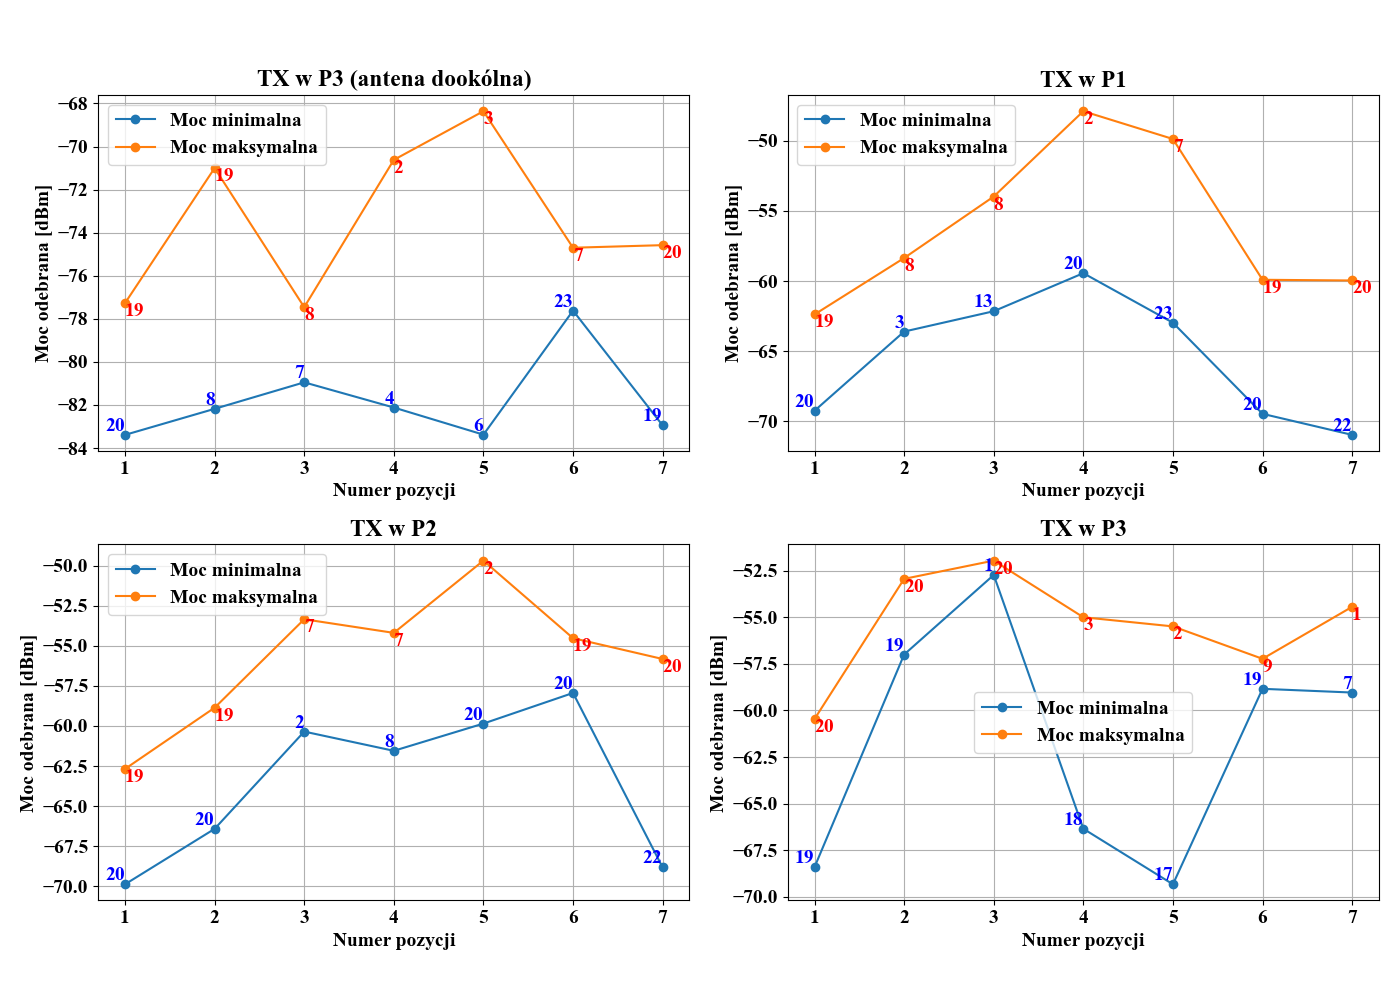
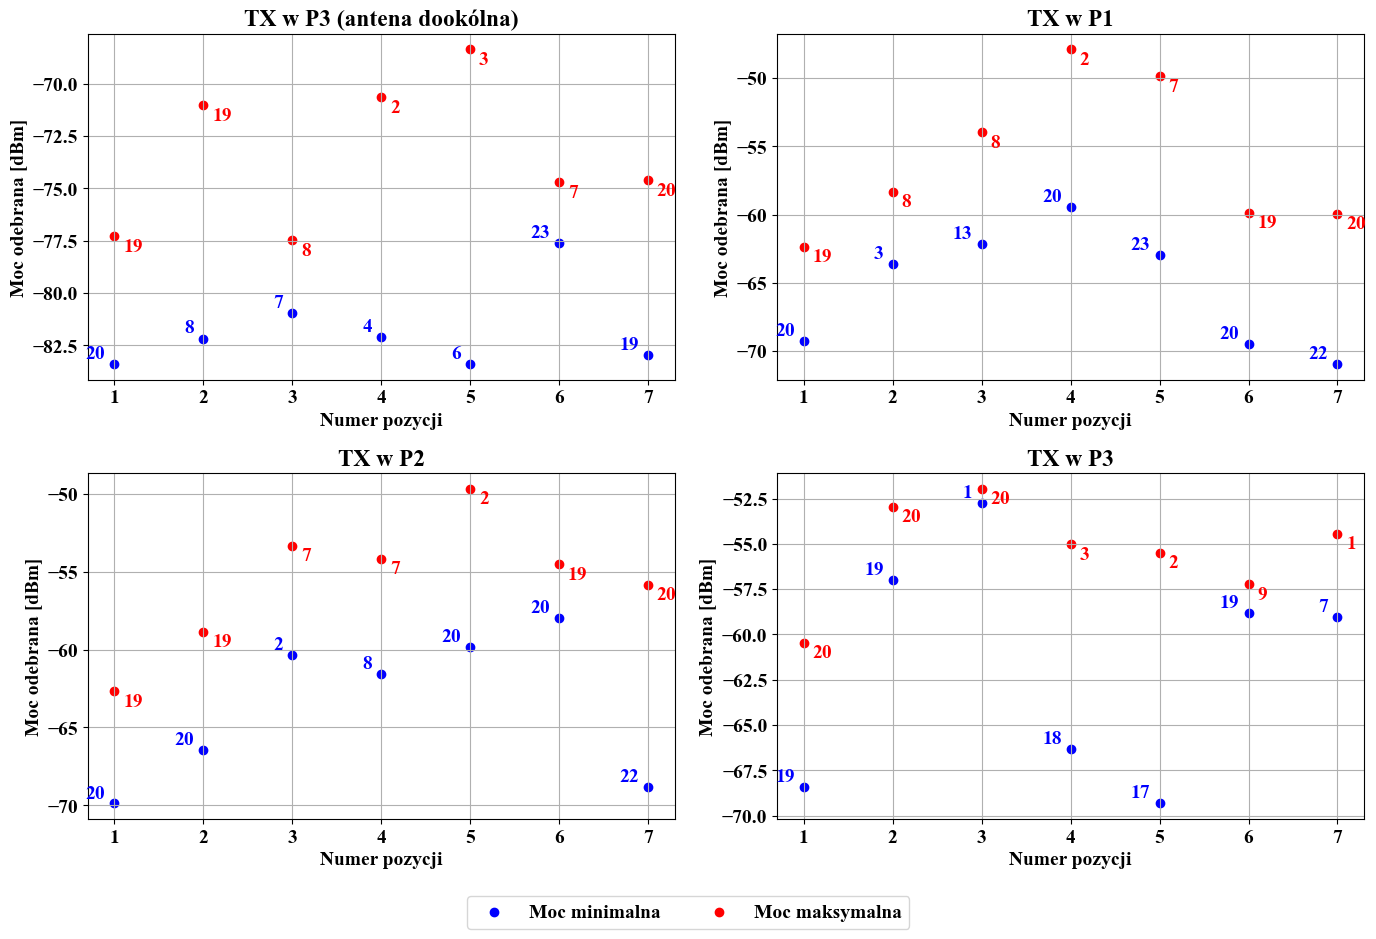
update

diff --git a/Suwnica programy i wykresy/minmaxcombo.py b/Suwnica programy i wykresy/minmaxcombo.py
@@ -25,7 +25,9 @@ os.makedirs(output_folder, exist_ok=True)
 
 # Przygotowanie figury
 fig, axs = plt.subplots(2, 2, figsize=(14, 10))
-# fig.suptitle("Minimalna i maksymalna", fontsize=20, fontweight="bold")
+
+# Używane etykiety do wspólnej legendy
+legend_labels = []
 
 # Iteracja po plikach i osiach
 for idx, (filename, title) in enumerate(zip(file_list, subplot_titles)):
@@ -52,13 +54,22 @@ for idx, (filename, title) in enumerate(zip(file_list, subplot_titles)):
         max_patterns.append(int(max_row["Pattern"]))
 
     ax = axs[idx // 2][idx % 2]
-    ax.plot(positions, min_power, marker="o", label="Moc minimalna")
-    ax.plot(positions, max_power, marker="o", label="Moc maksymalna")
+    scatter_min = ax.scatter(
+        positions, min_power, label="Moc minimalna", color="blue", marker="o"
+    )
+    scatter_max = ax.scatter(
+        positions, max_power, label="Moc maksymalna", color="red", marker="o"
+    )
+
+    # Tylko raz dodaj etykiety do wspólnej legendy
+    if idx == 0:
+        legend_labels.append(scatter_min)
+        legend_labels.append(scatter_max)
 
     for x, y, p in zip(positions, min_power, min_patterns):
         ax.text(
-            x,
-            y,
+            x - 0.1,
+            y + 0.1,
             str(p),
             ha="right",
             va="bottom",
@@ -70,8 +81,8 @@ for idx, (filename, title) in enumerate(zip(file_list, subplot_titles)):
 
     for x, y, p in zip(positions, max_power, max_patterns):
         ax.text(
-            x,
-            y,
+            x + 0.1,
+            y - 0.1,
             str(p),
             ha="left",
             va="top",
@@ -85,11 +96,20 @@ for idx, (filename, title) in enumerate(zip(file_list, subplot_titles)):
     ax.set_xlabel("Numer pozycji", fontweight="bold")
     ax.set_ylabel("Moc odebrana [dBm]", fontweight="bold")
     ax.grid(True)
-    ax.legend()
 
-plt.tight_layout(rect=[0, 0.03, 1, 0.95])  # Dla miejsca na tytuł główny
+# Ustawienia układu i wspólna legenda
+plt.tight_layout(rect=[0, 0.05, 1, 0.95])
+fig.legend(
+    legend_labels,
+    ["Moc minimalna", "Moc maksymalna"],
+    loc="lower center",
+    ncol=2,
+    fontsize=14,
+)
+
+# Zapis wykresu
 output_path = os.path.join(output_folder, "min_max_wykres_zbiorczy.png")
-plt.savefig(output_path)
+plt.savefig(output_path, bbox_inches="tight")
 plt.close()
 
 print(f"Wykres zbiorczy zapisano jako: {output_path}")

diff --git a/Suwnica programy i wykresy/heatmapa.py b/Suwnica programy i wykresy/heatmapa.py
@@ -3,10 +3,12 @@ import matplotlib.pyplot as plt
 import seaborn as sns
 import os
 import matplotlib as mpl
+from matplotlib import rcParams
 
 # Ustaw Times New Roman jako domyślną czcionkę
-mpl.rcParams["font.family"] = "Times New Roman"
-mpl.rcParams["font.size"] = 14
+rcParams.update(
+    {"font.family": "Times New Roman", "font.size": 14, "font.weight": "bold"}
+)
 
 # Lista ścieżek do plików wejściowych
 input_files = [
